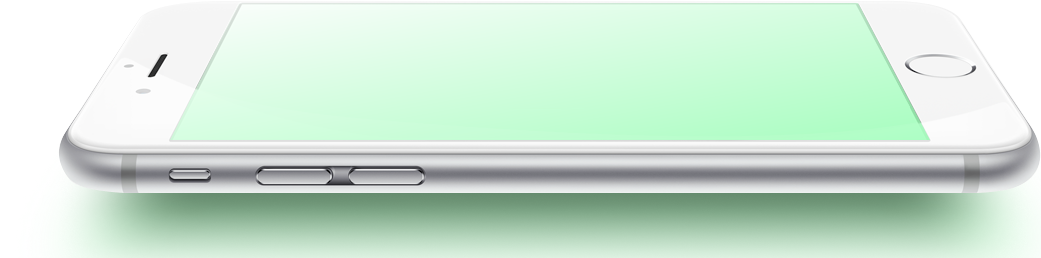
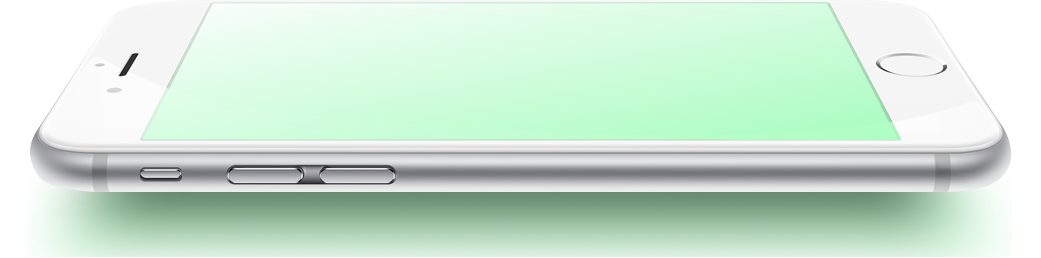
added about section, added preview item component

Changed region(s): [[0.0307, 0.4651, 1.0, 0.9302], [0.0922, 0.0, 0.9529, 0.5581], [0.0922, 0.9922, 0.9529, 1.0]]

diff --git a/src/components/About.vue b/src/components/About.vue
@@ -1,8 +1,17 @@
-<template>
-  <section
-    class="bg-[#DAE7EE] w-full h-screen"
-  >
+<script setup lang="ts">
+import PreviewItem from "./PreviewItem.vue";
+</script>
 
+<template>
+  <section class="flex items-center justify-center flex-col bg-[#E8EDFA] w-full pt-72">
+    <h3 class="text-4xl text-gray-600">Best tool to track watering of your plants</h3>
+    <div  class="flex items-center py-10 ">
+      <PreviewItem header="hej" description="Friendly and simple user interface ..." img-src="/about/time.png" />
+      <PreviewItem header="Set reminders" description="Something that app can remind you of"
+        img-src="/about/time.png" />
+      <PreviewItem header="Completely free" description="Free and open source" img-src="/about/time.png" />
+    </div>
+    <footer class="text-gray-600 text-lg ">Interested in more? <a class="text-cyan-700">View all features</a></footer>
+    <img class="w-full" src="/about/waves.png" alt="waves separator">
   </section>
 </template>
-

diff --git a/src/components/PreviewItem.vue b/src/components/PreviewItem.vue
@@ -1,0 +1,11 @@
+<script setup lang="ts">
+defineProps<{ imgSrc: string; header: string; description: string }>();
+</script>
+
+<template>
+    <article class="flex items-center justify-center flex-col gap-y-8 p-10 w-96 text-center text-gray-600">
+        <img :src="imgSrc" />
+        <h5 class="text-xl font-medium ">{{ header }}</h5>
+        <p class="leading-8 ">{{ description }}</p>
+    </article>
+</template>

diff --git a/src/components/Hero.vue b/src/components/Hero.vue
@@ -20,7 +20,7 @@ import Button from "./Button.vue";
     <img src="/hero/play.png" />
     <p class="text-white">Watch the video</p>
     </div>
-    <img src="/hero/phone.png" class="absolute -bottom-20 w-[800px] " />
+    <img src="/hero/phone.png" class="absolute -bottom-40 w-[1000px] z-[10]" />
   </header>
 </template>
 
